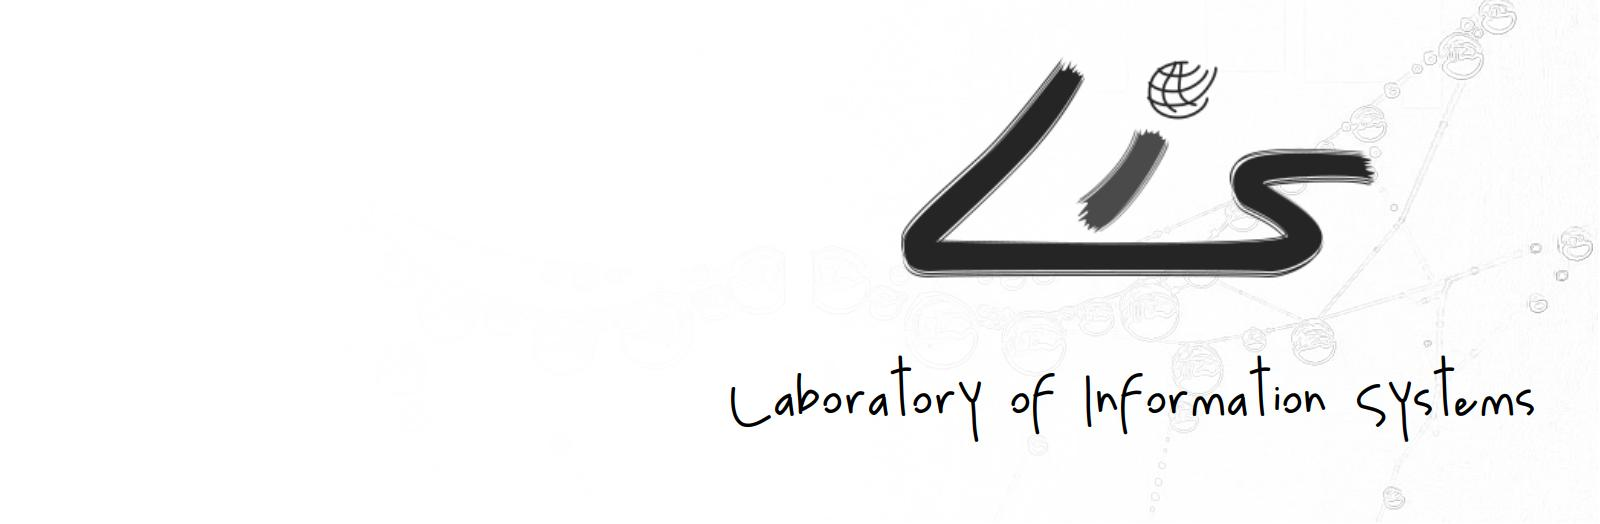
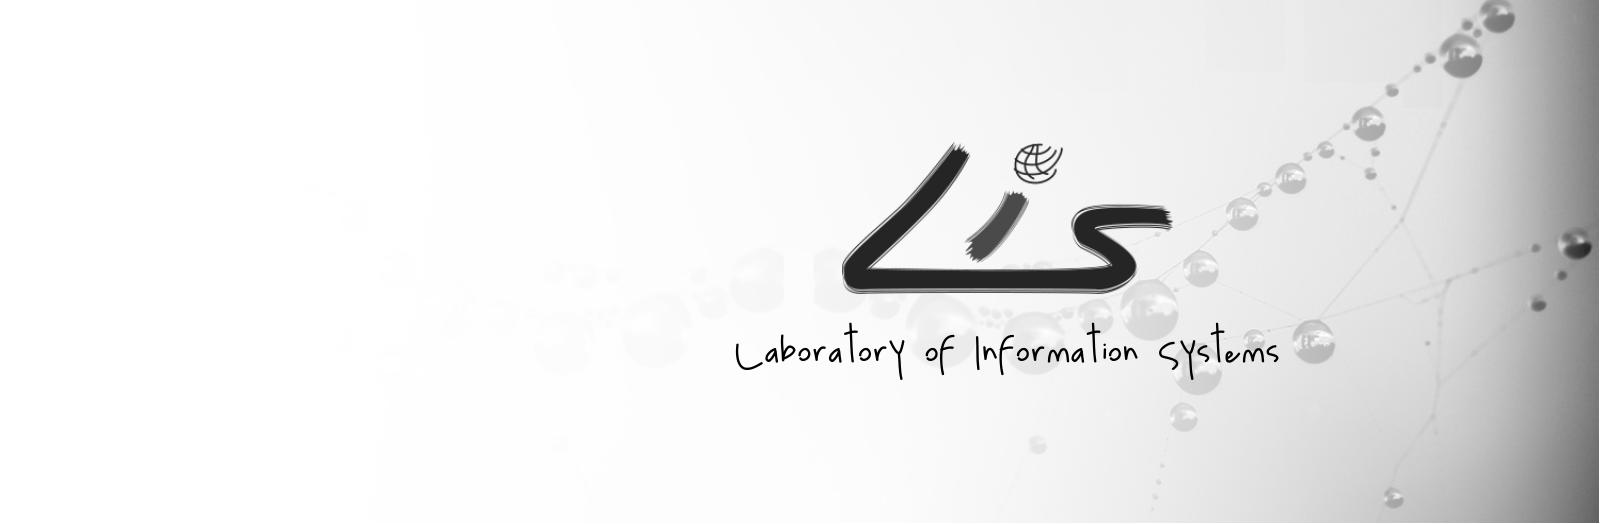
feat/fix (home): new about page and background fixed

Changed region(s): [[0.4375, 0.0, 1.0, 1.0]]

diff --git a/_pages/about.md b/_pages/about.md
@@ -1,0 +1,19 @@
+---
+layout: splash
+permalink: /about/
+---
+
+# About
+
+The Laboratory of Information Systems (LIS) is part of the the [Institute of Computing](http://www.ic.unicamp.br) (IC) at the [University of Campinas](http://www.unicamp.br) (UNICAMP).
+Here you'll be able to find out more about our Lab, its primary objectives and research interests.
+
+The Lab houses graduate and undergraduate students that work on interdisciplinary research involving, among others, database systems, human-computer interfaces, image processing, computer networks and software engineering.
+
+Its creation, in 1995, was motivated by the need to support data-intensive research within multidisciplinary projects involving computer scientists and scientists from other fields. Throughout the years, it has housed projects in many domains -- in medicine, health, bioinformatics, agriculture, biodiversity, urban planning, telecommunications, and sports -- with scientific results in these fields and in Computer Science, with emphasis in the whole life cycle of data management..
+
+To devise solutions to the data management problems, LIS' research has always needed to  involve researchers from other CS domains needed to design and construct models, techniques and software tools  to help end users store, manage, retrieve, analyze, visualize, share, reuse, publish, preserve and interact with} their data, through "information systems".
+
+Besides being data-driven, research in LIS has always been motivated by applications -- with cooperation with researchers in the life sciences (notably bioinformatics, biodiversity, environmental management, health and medicine), agricultural sciences (and crop planning, monitoring and management) and engineering (notably urban planning).
+
+The first set of domains further helped define the name of the laboratory -- LIS is the Portuguese word for a flower (lily), and thus the laboratory's name has an underlying connotation with living beings and biodiversity issues.
